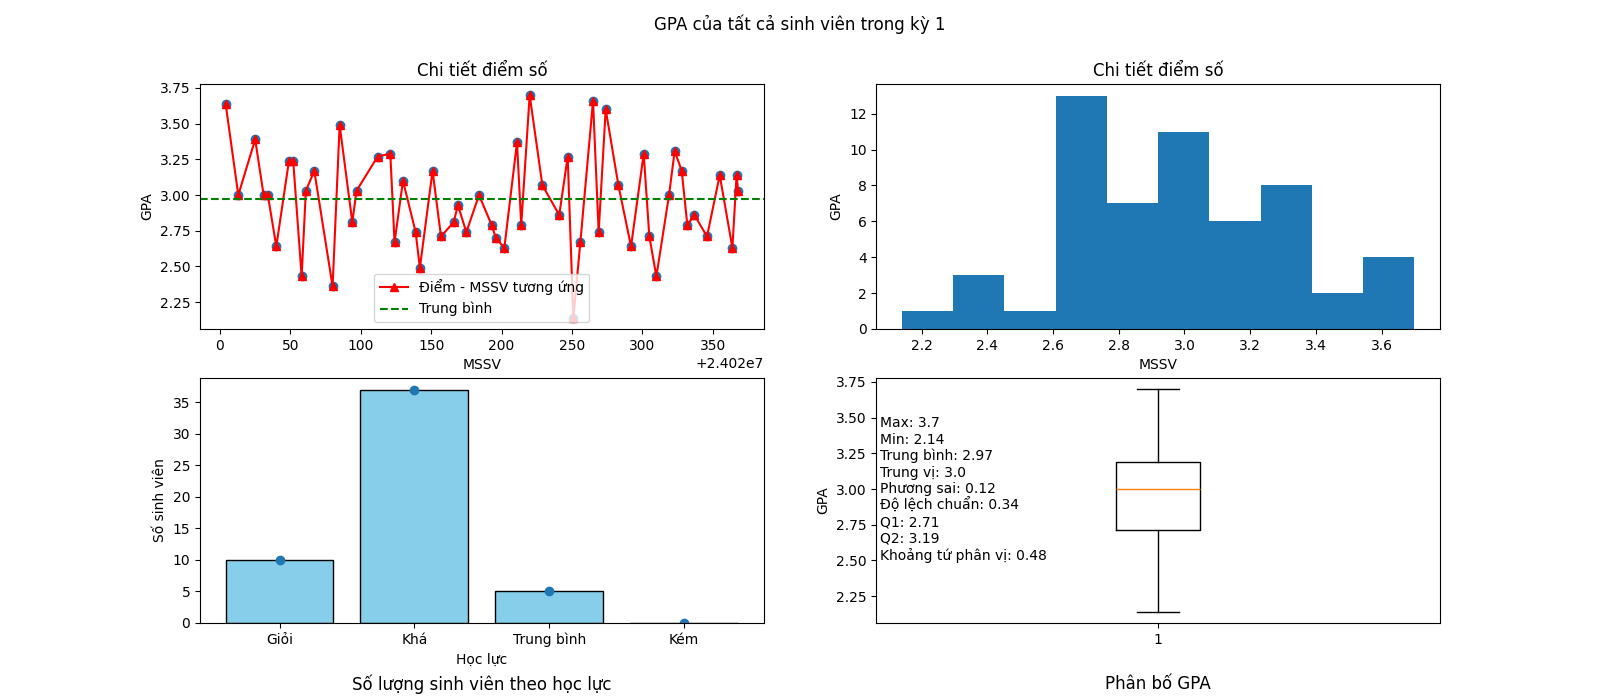
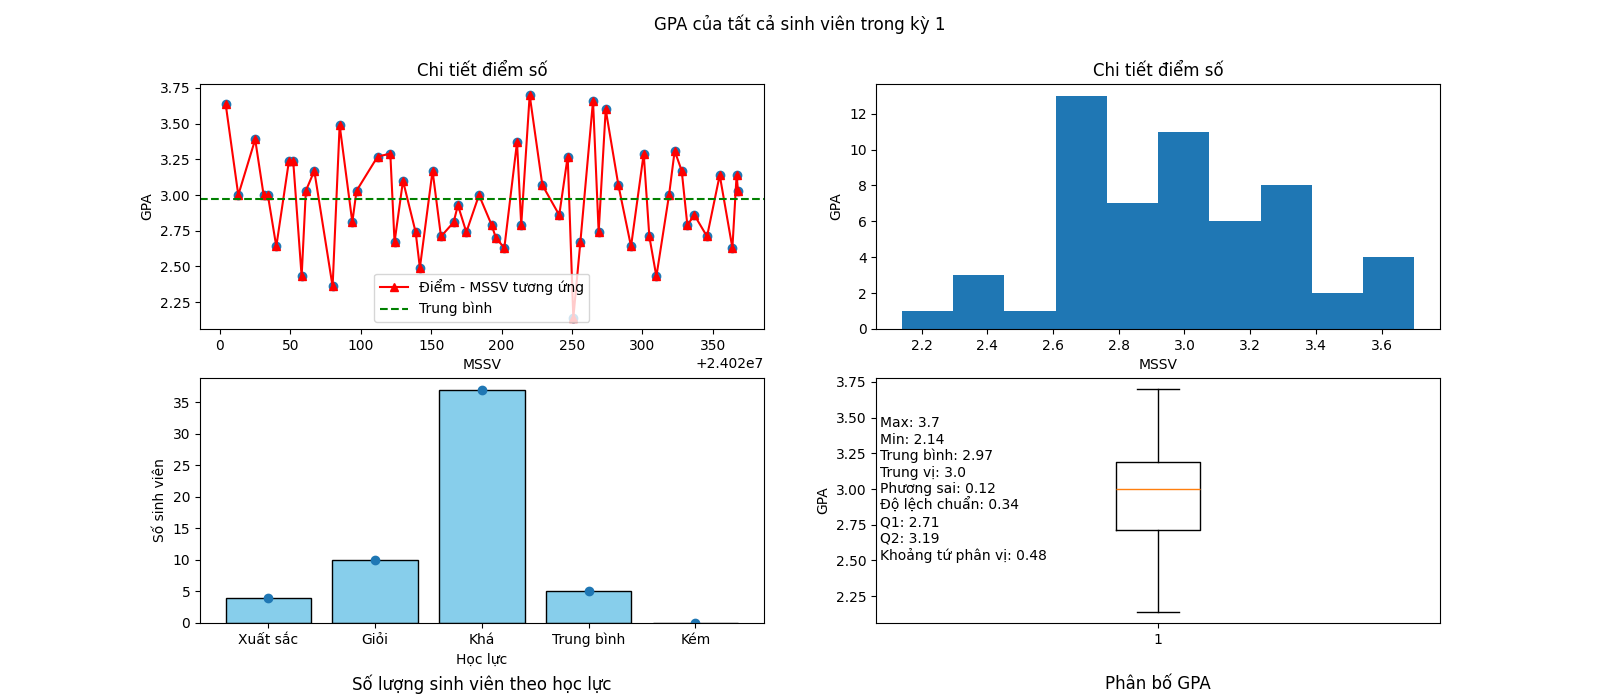
Thêm hàm vẽ biểu đồ số điểm của một lớp học

Changed region(s): [[0.125, 0.54, 0.4375, 0.93], [0.1562, 0.9, 0.1875, 0.93]]

diff --git a/libs/draw/draw_chart.py b/libs/draw/draw_chart.py
@@ -1,6 +1,6 @@
 from typing import Counter
 import matplotlib.pyplot as plt
-from libs.database_lib.evaluate_student_lib import get_all_MSSV, get_cpa_4, max_HocKy, get_gpa_4, get_name_student, evaluate_academic_perfomance
+from libs.database_lib.evaluate_student_lib import change_score_to_word, get_all_MSSV, get_all_score_in_a_LopHoc, get_cpa_4, get_name_LopHoc, max_HocKy, get_gpa_4, get_name_student, evaluate_academic_perfomance
 import numpy as np
 import mplcursors
 
@@ -34,7 +34,7 @@ def draw_chart_gpa_of_all_students_each_HocKy(HocKy):
 
     all_mssv = get_all_MSSV()
     all_gpa_HocKy = [get_gpa_4(mssv, HocKy) for mssv in all_mssv]
-    evaluate = ["Giỏi", "Khá", "Trung bình", "Kém"]
+    evaluate = ["Xuất sắc", "Giỏi", "Khá", "Trung bình", "Kém"]
     all_count_academic_prefomance = Counter([evaluate_academic_perfomance(mssv, HocKy) for mssv in all_mssv])
     count_evaluate = [all_count_academic_prefomance[ev] for ev in evaluate]
 
@@ -43,12 +43,9 @@ def draw_chart_gpa_of_all_students_each_HocKy(HocKy):
     fig.text(0.55, 0.2, evaluation_text)
 
     ax1 = set_ax1_plot(ax1, all_mssv, all_gpa_HocKy, "Chi tiết điểm số", "Điểm - MSSV tương ứng", "MSSV", "GPA")
-
     ax2 = set_ax2_hist(ax2, all_gpa_HocKy, "Chi tiết điểm số", "MSSV", "GPA")
-
     ax3 = set_ax3_bar(ax3, evaluate, count_evaluate, "Học lực", "Số sinh viên", 
                       0.5, -0.25, "Số lượng sinh viên theo học lực")
-
     ax4 = set_ax4_boxplot(ax4, all_gpa_HocKy, "GPA", 0.5, -0.25, "Phân bố GPA")
 
     fig.savefig(f"./resources/output_images/draw_chart_gpa_of_all_students_each_HocKy_{HocKy}.png")
@@ -57,27 +54,44 @@ def draw_chart_gpa_of_all_students_each_HocKy(HocKy):
 def draw_chart_cpa_of_all_students():
     fig, axes = plt.subplots(2, 2, figsize=(16,7))
     ax1, ax2, ax3, ax4 = axes.flatten()
+    set_figure(fig, "CPA của tất cả sinh viên")
 
     all_mssv = get_all_MSSV()
     all_gpa_HocKy = [get_cpa_4(mssv) for mssv in all_mssv]
-    evaluate = ["Giỏi", "Khá", "Trung bình", "Kém"]
+    evaluate = ["Xuất sắc", "Giỏi", "Khá", "Trung bình", "Kém"]
     all_count_academic_prefomance = Counter([evaluate_academic_perfomance(mssv) for mssv in all_mssv])
     count_evaluate = [all_count_academic_prefomance[ev] for ev in evaluate]
 
-    set_figure(fig, f"CPA của tất cả sinh viên")
     evaluation_text = get_evaluation_text(all_gpa_HocKy)
     fig.text(0.55, 0.2, evaluation_text)
 
     ax1 = set_ax1_plot(ax1, all_mssv, all_gpa_HocKy, "Chi tiết điểm số", "Điểm - MSSV tương ứng", "MSSV", "CPA")
-
     ax2 = set_ax2_hist(ax2, all_gpa_HocKy, "Chi tiết điểm số", "MSSV", "CPA")
-
     ax3 = set_ax3_bar(ax3, evaluate, count_evaluate, "Học lực", "Số sinh viên", 
                       0.5, -0.25, "Số lượng sinh viên theo học lực")
-
     ax4 = set_ax4_boxplot(ax4, all_gpa_HocKy, "GPA", 0.5, -0.25, "Phân bố GPA")
 
     fig.savefig(f"./resources/output_images/draw_chart_cpa_of_all_students.png")
+    plt.show()
+
+def draw_chart_scores_all_students_in_a_LopHoc(MLH):
+    fig, axes = plt.subplots(2, 2, figsize=(16,7))
+    ax1, ax2, ax3, ax4 = axes.flatten()
+    set_figure(fig, f"Điểm {get_name_LopHoc(MLH)} của tất cả sinh viên")
+
+    all_mssv = get_all_MSSV()
+    all_scores_10 = get_all_score_in_a_LopHoc(MLH)
+    all_scores_word = [change_score_to_word(ans) for ans in all_scores_10]
+    evaluate = ["A+", "A", "B+", "B", "C+", "C", "D+", "D", "F"]
+    all_count_academic_prefomance = Counter(all_scores_word)
+    count_evaluate = [all_count_academic_prefomance[ev] for ev in evaluate]
+
+    ax1 = set_ax1_plot(ax1, all_mssv, all_scores_10, "Chi tiết điểm số", "Điểm - MSSV tương ứng", "MSSV", "Điểm")
+    ax2 = set_ax2_hist(ax2, all_scores_10, "Chi tiết điểm số", "MSSV", "Điểm")
+    ax3 = set_ax3_bar(ax3, evaluate, count_evaluate, "Học lực", "Số sinh viên", 
+                      0.5, -0.25, "Số lượng sinh viên theo học lực")
+    ax4 = set_ax4_boxplot(ax4, all_scores_10, "GPA", 0.5, -0.25, "Phân bố Điểm")
+    fig.savefig(f"./resources/output_images/draw_chart_scores_all_students_in_a_LopHoc_{MLH}.png")
     plt.show()
 
 def set_ax1_plot(ax1, x, y, title, LABEL, xlabel, ylabel):

diff --git a/libs/database_lib/evaluate_student_lib.py b/libs/database_lib/evaluate_student_lib.py
@@ -160,3 +160,8 @@ def get_all_MLH():
     cursor.execute("SELECT MLH FROM LopHoc")
     rows = cursor.fetchall()
     return [row[0] for row in rows]
+
+def get_name_LopHoc(MLH):
+    cursor.execute("SELECT Ten FROM LopHoc WHERE MLH = ?", (MLH,))
+    row = cursor.fetchone()
+    return row[0]

diff --git a/main.py b/main.py
@@ -3,4 +3,5 @@ from libs.database_lib.evaluate_student_lib import *
 from libs.draw.draw_chart import *
 
 if __name__ == "__main__":
-    print(get_all_MLH())
+    # draw_chart_scores_all_students_in_a_LopHoc("FLF1107")
+    print(get_all_score_in_a_LopHoc("FLF1107"))

diff --git a/README.md b/README.md
@@ -30,7 +30,9 @@
         - Khóa chính: Mã lớp học + Học kỳ + Mã số sinh viên
 ## Chức năng cơ bản
 #### Một số hàm cần thiết khi sử dụng
-- Chú ý: Các hàm đã tự động truy cập database, người dùng không cần truy cập lại. Không có hàm nào in ra màn hình vì mục đích vẽ biểu đồ, nếu muốn đơn lẻ hiện ra màn hình thì thêm print.
+- Chú ý: 
+    - Các hàm đã tự động truy cập database, người dùng không cần truy cập lại. 
+    - Không có hàm nào in ra màn hình vì mục đích vẽ biểu đồ, nếu muốn đơn lẻ hiện ra màn hình thì thêm print.
 1. get_cpa_10(MSSV) và get_cpa_4(MSSV): Lấy CPA hệ 10 và hệ 4 của 1 sinh viên
 2. get_arr_cpa_10(MSSV) và get_arr_cpa_4(MSSV): Lấy danh sách điểm trung bình từng môn tất cả các kỳ của 1 sinh viên theo hệ 10 và hệ 4
 3. get_name_student(MSSV): Lấy tên sinh viên 
